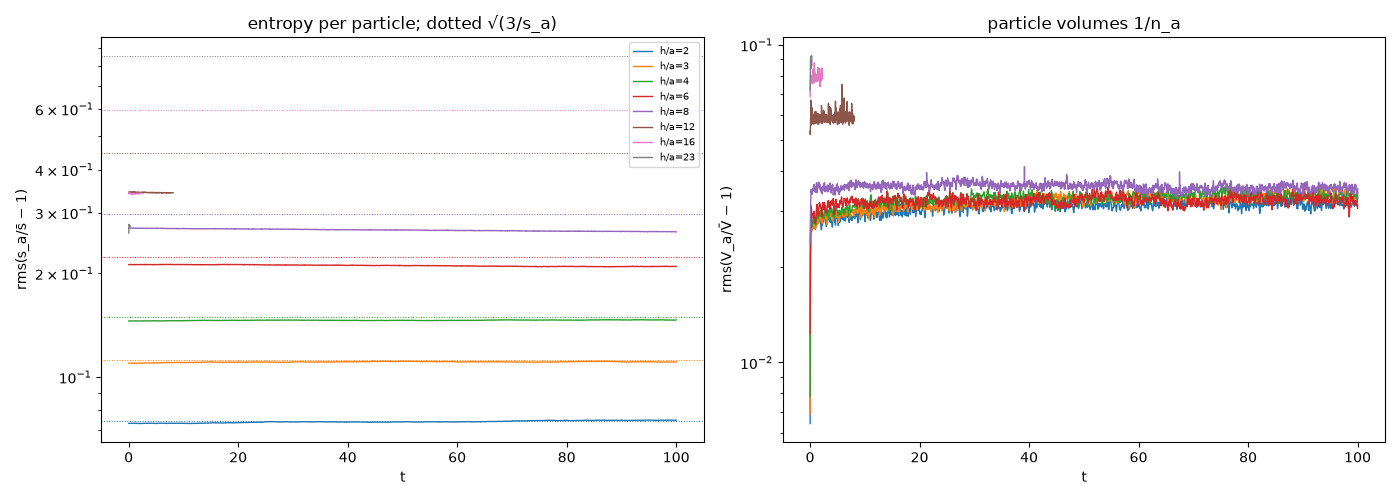
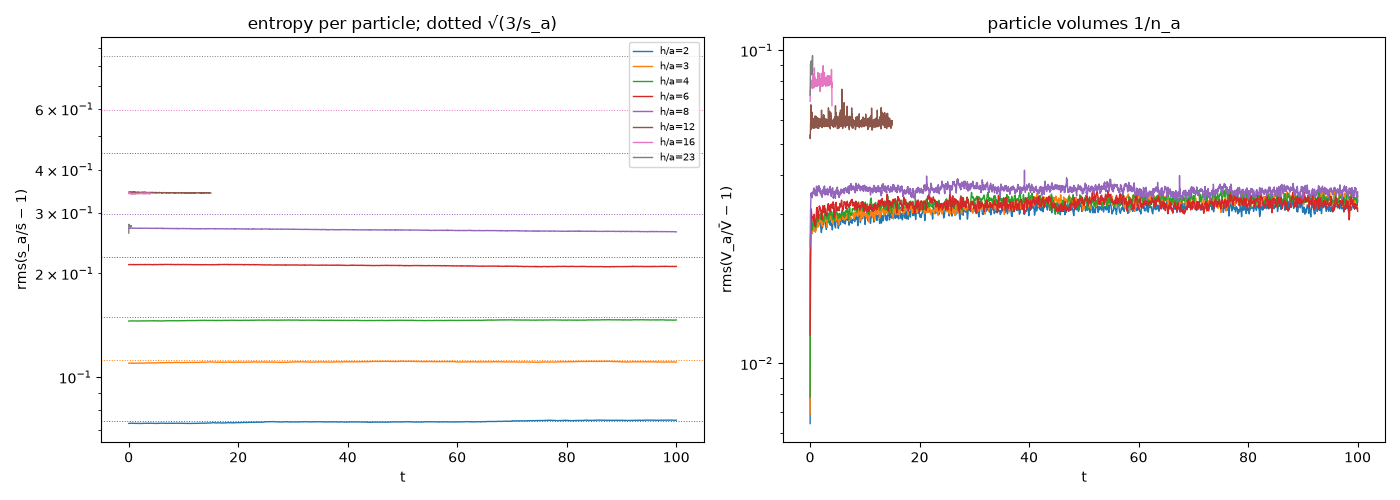
continuum_limit.tex: all stages and conclusions — stable to s_a = 4 with Δt chosen for acceptance, |v| ≥ 1 rejections are the equilibrium tail, correlators fluid-like, particles become Brownian walkers and the damping rises with h/a (no continuum limit of the transport at fixed h); runs table nersc/

diff --git a/docs/continuum_limit.tex b/docs/continuum_limit.tex
@@ -315,7 +315,7 @@ is half of that):
 $h/a$ & $s_a$ & $t$ & KE/eq & exact & $\Delta H/H$ & acc.\ residual & $|v|\ge1$ (resid.) & $2\gamma/\nu k^2$ \\ \hline
 8 & 34 & 100 & 0.943 & 0.893 & $+2.7\times10^{-3}$ & 0.729 & $2.1\times10^{-4}$ & 1.47 \\
 8, $\Delta t/2$ & 34 & 50 & 0.949 & 0.893 & $+5.6\times10^{-4}$ & 0.805 & $4.7\times10^{-4}$ & --- \\
-12 & 15 & 8 & 0.870 & 0.779 & $+7.2\times10^{-4}$ & 0.752 & $2.6\times10^{-2}$ & (2.2) \\
+12 & 15 & 8 & 0.870 & 0.779 & $+7.2\times10^{-4}$ & 0.752 & $2.6\times10^{-2}$ & --- \\
 12, $\Delta t/2$ & 15 & 4 & 0.876 & 0.779 & $+4.0\times10^{-4}$ & 0.823 & $1.6\times10^{-2}$ & --- \\
 16 & 8.5 & 2.2 & 0.752 & 0.654 & $+1.6\times10^{-3}$ & 0.736 & $9.5\times10^{-2}$ & --- \\
 16, $\Delta t/2$ & 8.5 & 1.2 & 0.760 & 0.654 & $+9.3\times10^{-4}$ & 0.810 & $6.3\times10^{-2}$ & --- \\
@@ -332,12 +332,59 @@ $h/a$ & $s_a$ & $t$ & KE/eq & exact & $\Delta H/H$ & acc.\ residual & $|v|\ge1$ 
   change it, so it is not a step error; the energy drift is (it falls by $2$--$5$ with $\Delta t/2$).  A
   candidate: the one-particle calculation holds the volume fixed, while in the n-scheme the volumes
   fluctuate (by $3\%$ at $s_a=60$, more below), which widens the momentum distribution.  Open.
-\item \emph{The transverse damping keeps rising}: $1.47$ at $h/a=8$; the short run at $12$ gives about
-  $2.2$ (only $t=8$, so a rough number).  It stays below $1+D_{\rm self}/\nu$ ($2.5$, $4.2$), but grows with
+\item \emph{The transverse damping keeps rising}: $1.47$ at $h/a=8$; at $12$ see the final table.  It stays below $1+D_{\rm self}/\nu$ ($2.5$, $4.2$), but grows with
   it.  The self-diffusion keeps its $(h/a)^2$ growth: $3.3\times10^{-3}$, $7.0\times10^{-3}$, $1.1\times10^{-2}$,
   $1.5\times10^{-2}$ at $h/a=8$, $12$, $16$, $23$.
 \end{enumerate}
 
-(Stages 3--5 are completed in the next update.)
+\paragraph{All stages} (stage 3 complete to $t=15$, stage 4 to $t=4$; stage 5 stopped at $t=0.5$ of $1$ to stay
+within the budget, about 19 node-hours in all; per-run records in \texttt{\$SCRATCH/sph/cl/runs.csv},
+a copy in \texttt{nersc/runs/cl\_runs.csv}):
+\begin{center}
+\begin{tabular}{rrrrcccccc}
+\hline
+$h/a$ & $s_a$ & $\Delta t/\Delta t_0$ & $t$ & KE/eq & exact & $\Delta H/H$ & acc.\ resid. & $|v|\ge1$ (resid.) & $2\gamma/\nu k^2$ \\ \hline
+2 & 541 & 1 & 100 & 0.997 & 0.993 & $+2.9\times10^{-4}$ & 0.771 & 0 & 1.14 \\
+3 & 241 & 1 & 100 & 0.994 & 0.984 & $+6.4\times10^{-4}$ & 0.757 & 0 & 1.31 \\
+4 & 135 & 1 & 100 & 0.987 & 0.972 & $+1.0\times10^{-3}$ & 0.751 & 0 & 1.16 \\
+6 & 60 & 1 & 100 & 0.969 & 0.938 & $+1.8\times10^{-3}$ & 0.741 & $2\times10^{-7}$ & 1.50 \\
+8 & 34 & 1 & 100 & 0.943 & 0.893 & $+2.7\times10^{-3}$ & 0.729 & $2.1\times10^{-4}$ & 1.47 \\
+12 & 15 & 1/2 & 15 & 0.869 & 0.779 & $+9.9\times10^{-4}$ & 0.752 & $2.6\times10^{-2}$ & 1.77 \\
+16 & 8.5 & 1/4 & 4 & 0.752 & 0.654 & $+1.1\times10^{-3}$ & 0.734 & $9.5\times10^{-2}$ & --- \\
+23 & 4.1 & 1/16 & 0.5 & 0.512 & 0.463 & $+2.3\times10^{-3}$ & 0.662 & $0.25$ & --- \\
+\hline
+\end{tabular}
+\end{center}
+The damping is fitted at $kh\approx0.52$ only where the run is long enough ($t\ge8$).
+
+%=============================================================================
+\section{Conclusions}
+\label{sec:concl}
+
+\begin{enumerate}
+\item \emph{It does not break} down to $s_a=4$ (four units of entropy per particle, $\delta v=0.5$), provided
+  the time step is lowered to keep the residual acceptance near $0.75$ ($\Delta t/16$ at $s_a=4$).  The
+  equilibrium start itself fails at $s_a=2$.
+\item \emph{The superluminal rejections are physics, not a bug.}  They come from particles whose
+  equilibrium distribution really reaches the light cone ($P(|v|>0.9)$ matches the exact one-particle
+  value at every $s_a$).  They do not bias the equilibrium, but they cost acceptance and need small
+  steps: they fall only as about $\sqrt{\Delta t}$.
+\item \emph{Thermodynamics holds} at the scale of the kernel: the equal-time correlators are those of
+  the fluid at every $h/a$ that ran long enough.  The kinetic energy is above the exact value for a
+  particle of fixed volume, by up to $15\%$ at $s_a=8.5$, independent of $\Delta t$; the fluctuating
+  volumes of the n-scheme are a candidate.
+\item \emph{There is no continuum limit at fixed $h$ in the transport.}  The particles become
+  independent Brownian walkers, $D_{\rm self}\propto(h/a)^2$ (from $0.08\nu$ at $h/a=2$ to $8\nu$ at $23$), and the
+  transverse damping grows with them, from $1.1$ to $1.8$ times the input viscosity by $h/a=12$.  The
+  walk carries momentum; it acts as an extra kinetic viscosity, smaller than $wD_{\rm self}$ but
+  growing with it.  At $h/a\approx2$--$4$ the scheme is closest to the input transport.
+\item \emph{Cost}: a step costs about $(h/a)^4$, and the time step must fall as well; $s_a\lesssim10$
+  is out of reach for transport measurements (hours per unit time on a node).
+\end{enumerate}
+
+\paragraph{Open.}  (a) Why the kinetic energy exceeds the one-particle value (volume fluctuations?).
+(b) The damping against $D_{\rm self}$: a measurement of the momentum carried by the walk, e.g.\ the
+transverse correlator at $kh<0.5$ in a larger box at $h/a=6$--$8$.  (c) Whether a proposal that respects
+$|v|<1$ (non-Gaussian) restores the acceptance at large $\delta v$ without small steps.
 
 \end{document}

diff --git a/nersc/LOG.md b/nersc/LOG.md
@@ -118,6 +118,14 @@ start.  Output `$SCRATCH/sph/cl/`.  Each stage one regular node, 3 h, `node.sh` 
   equilibrium draw fails at s_a = 2.1).
 - Stages 4 (45-48) **61116238** and 5 (49-52) **61116239**, -t 4:00:00, THREADS=32, checkout `~/stochastic-sph-run2`.
 - Δt criterion: residual acceptance ≈ 0.75 (f = 1, 1/2, 1/4, 1/16 at h/a = 8, 12, 16, 23).
+- Resumes: stage 3 61124065 (timeout) + 61128803; stage 4 61127404.  Stage 5 stopped at t = 0.5
+  of 1 (4 h gave ~870 of 1848 steps at ~16 s/step).  Total ≈ 19 node-hours.
+- **Outcome** (docs/continuum_limit.pdf; `nersc/runs/cl_runs.csv`): stable down to s_a = 4 with the
+  Δt criterion; equilibrium start fails at s_a = 2.1; |v| ≥ 1 rejections are the real equilibrium
+  tail; equal-time correlators fluid-like; KE above the fixed-volume one-particle value (up to 15%);
+  D_self ∝ (h/a)² and the transverse damping rises (1.1 → 1.8 by h/a = 12): no continuum limit of the
+  transport at fixed h.  Cost per step ∝ (h/a)^4 or faster (4.5 s at h/a = 12, 9 s at 16, 16 s at 23
+  on 32 threads).
 
 ### Default scheme changed — 2026-11-10, `main` at `91d9e66`
 
